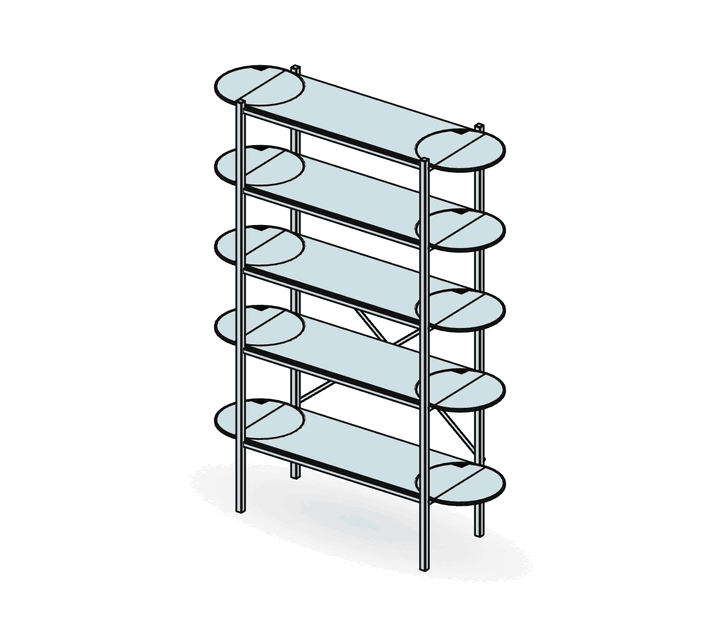
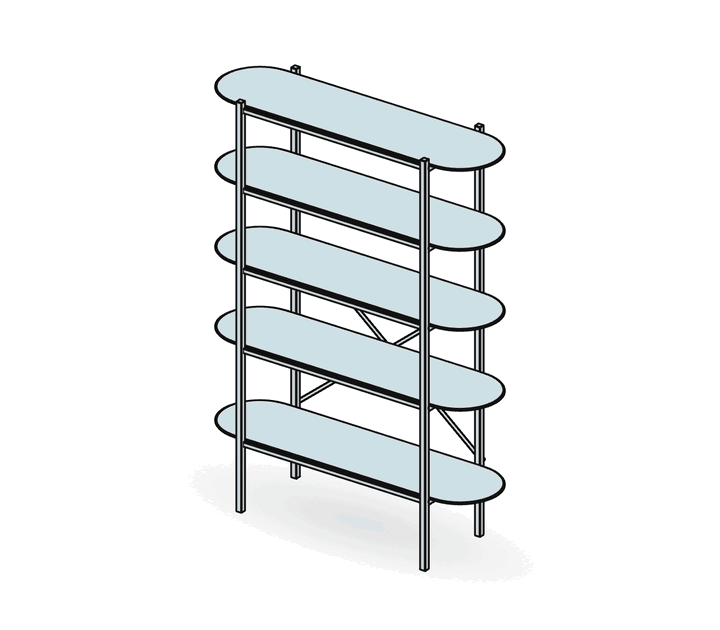
GLUDSTED glass shelves drawn as one oval, without seam lines

diff --git a/src/lib/plan/families/gludsted.ts b/src/lib/plan/families/gludsted.ts
@@ -1,7 +1,7 @@
 import type { PartPiece, ProductSpec, Vec3 } from "../../types";
 import type { FitOpts, HwDef, PlanBuilder } from "../builder";
 import { rod } from "./_seat";
-import { box, ladder } from "./_metal";
+import { ladder } from "./_metal";
 import type { Family } from "./family";
 
 /*
@@ -42,13 +42,17 @@ function build(b: PlanBuilder, s: ProductSpec): boolean {
   const braces = [b.place(r.type, r.mid), b.place(r.type, r.mid, [0, Math.PI, 0])];
   const mid: Vec3 = [0, (y0 + y1) / 2, zb];
 
-  // the oval glass: a straight middle and a round end each side
+  // the oval glass, one piece: a straight middle and a round end each side, traced as one outline (the corners
+  // rounded off fully, so the points read as a smooth curve, not facets)
   const flat = W - GD;
-  const glass = b.compound(
-    "Glass shelf",
-    [box([flat, GT, GD], [0, 0, 0]), ...[-1, 1].map((g): PartPiece => ({ shape: "cyl", size: [GD, GT, GD], pos: [(g * flat) / 2, 0, 0] }))],
-    { material: "glass", label: "1" },
+  const oval: [number, number][] = [-1, 1].flatMap((g) =>
+    Array.from({ length: 13 }, (_, i): [number, number] => {
+      const a = -Math.PI / 2 + (i * Math.PI) / 12;
+      return [g * (flat / 2 + (GD / 2) * Math.cos(a)), g * (GD / 2) * Math.sin(a)];
+    }),
   );
+  const piece: PartPiece = { shape: "slab", size: [W, GT, GD], pos: [0, 0, 0], outline: oval, round: 1000 };
+  const glass = b.compound("Glass shelf", [piece], { material: "glass", label: "1" });
   const shelves = LEVELS.map((y) => b.place(glass.type, [0, y + 3 + GT / 2, 0]));
 
   /* ---------- fittings, where they end up ---------- */
